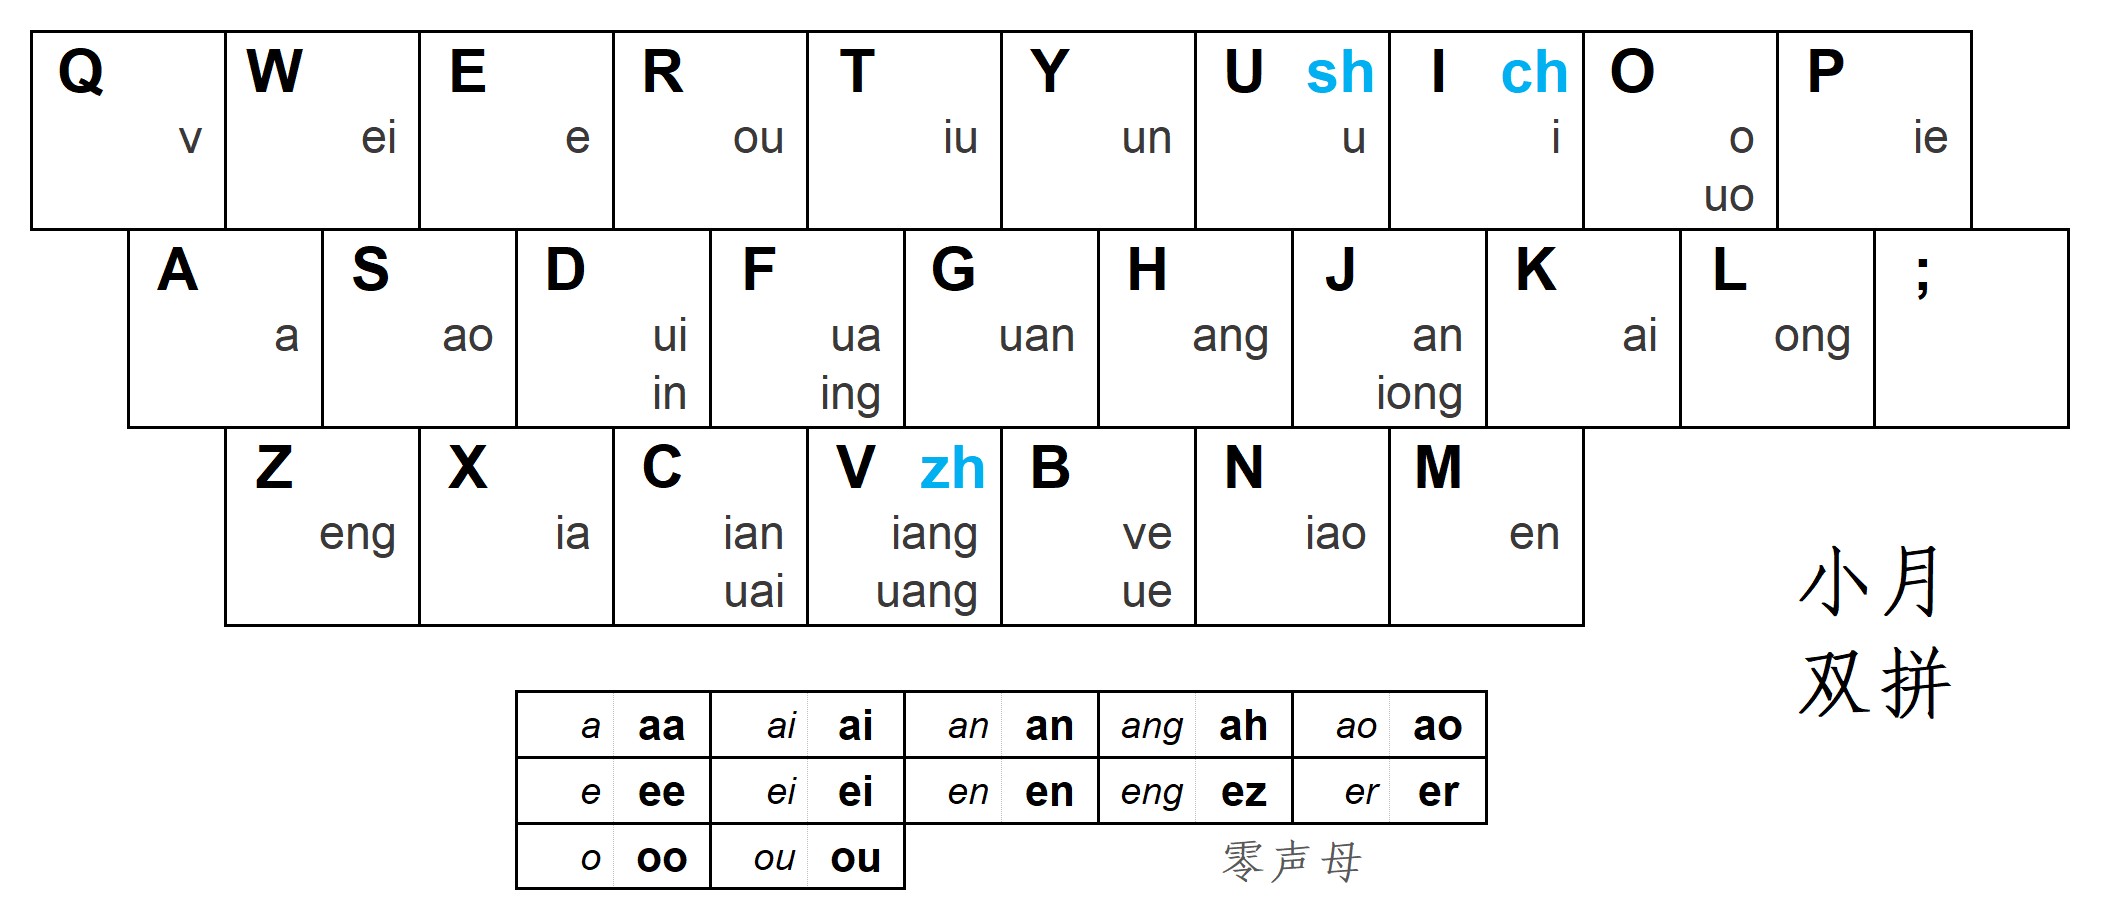
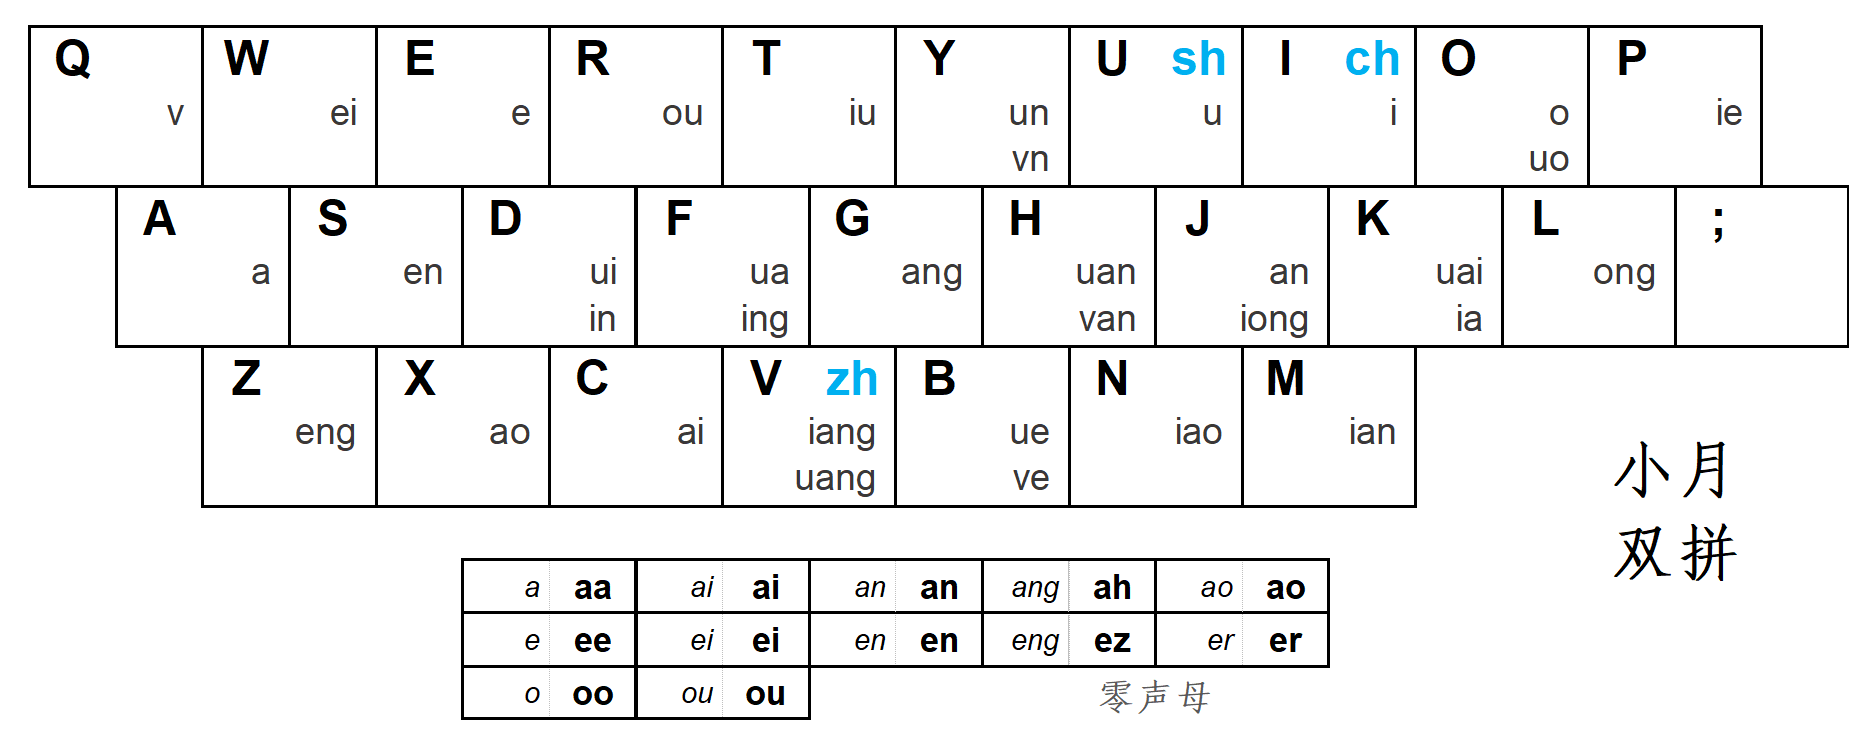
小月双拼

diff --git a/src/scheme/xiaoyue.js b/src/scheme/xiaoyue.js
@@ -4,7 +4,6 @@ Shuang.resource.scheme.xiaoyue = {
   id: 'xiaoyue',
   name: '小月双拼',
   tips: [
-    '方案改自小浪双拼',
     '常用输入法不内置'
   ],
   detail: {
@@ -35,52 +34,54 @@ Shuang.resource.scheme.xiaoyue = {
     },
     yun: {
       a: 'a',
-      ai: 'k',
-      an: 'j',
-      ang: 'h',
-      ao: 's',
-      e: 'e',
-      ei: 'w',
-      en: 'm',
-      eng: 'z',
-      i: 'i',
-      ia: 'x',
-      ian: 'c',
-      iang: 'v',
-      iao: 'n',
-      ie: 'p',
-      iong: 'j',
-      in: 'd',
-      ing: 'f',
-      iu: 't',
-      o: 'o',
-      ong: 'l',
-      ou: 'r',
-      u: 'u',
-      ua: 'f',
-      uai: 'c',
-      uan: 'g',
-      uang: 'v',
+      ve: 'b',
       ue: 'b',
+      ai: 'c',
+      in: 'd',
       ui: 'd',
-      un: 'y',
+      e: 'e',
+      ing: 'f',
+      ua: 'f',
+      uan: 'g',
+      van: 'g',
+      ang: 'h',
+      i: 'i',
+      an: 'j',
+      iong: 'j',
+      uai: 'k',
+      ia: 'k',
+      ong: 'l',
+      ian: 'm',
+      iao: 'n',
+      o: 'o',
       uo: 'o',
+      ie: 'p',
       v: 'q',
-      ve: 'b'
+      ou: 'r',
+      en: 's',
+      iu: 't',
+      u: 'u',
+      iang: 'v',
+      uang: 'v',
+      ei: 'w',
+      ao: 'x',
+      vn: 'y',
+      un: 'y',
+      eng: 'z'
     },
     other: {
-      a: 'aa',
-      ai: 'ai',
-      an: 'an',
-      ang: 'ah',
-      ao: 'ao',
-      e: 'ee',
       ei: 'ei',
-      en: 'en',
-      eng: 'ez',
-      er: 'er',
+      ang: 'ah',
+      ou: 'ou',
+      ai: 'ai',
       o: 'oo',
-      ou: 'ou'
+      eng: 'ez',
+      en: 'en',
+      a: 'aa',
+      er: 'er',
+      an: 'an',
+      ao: 'ao',
+      e: 'ee'
     }
   }
 }
